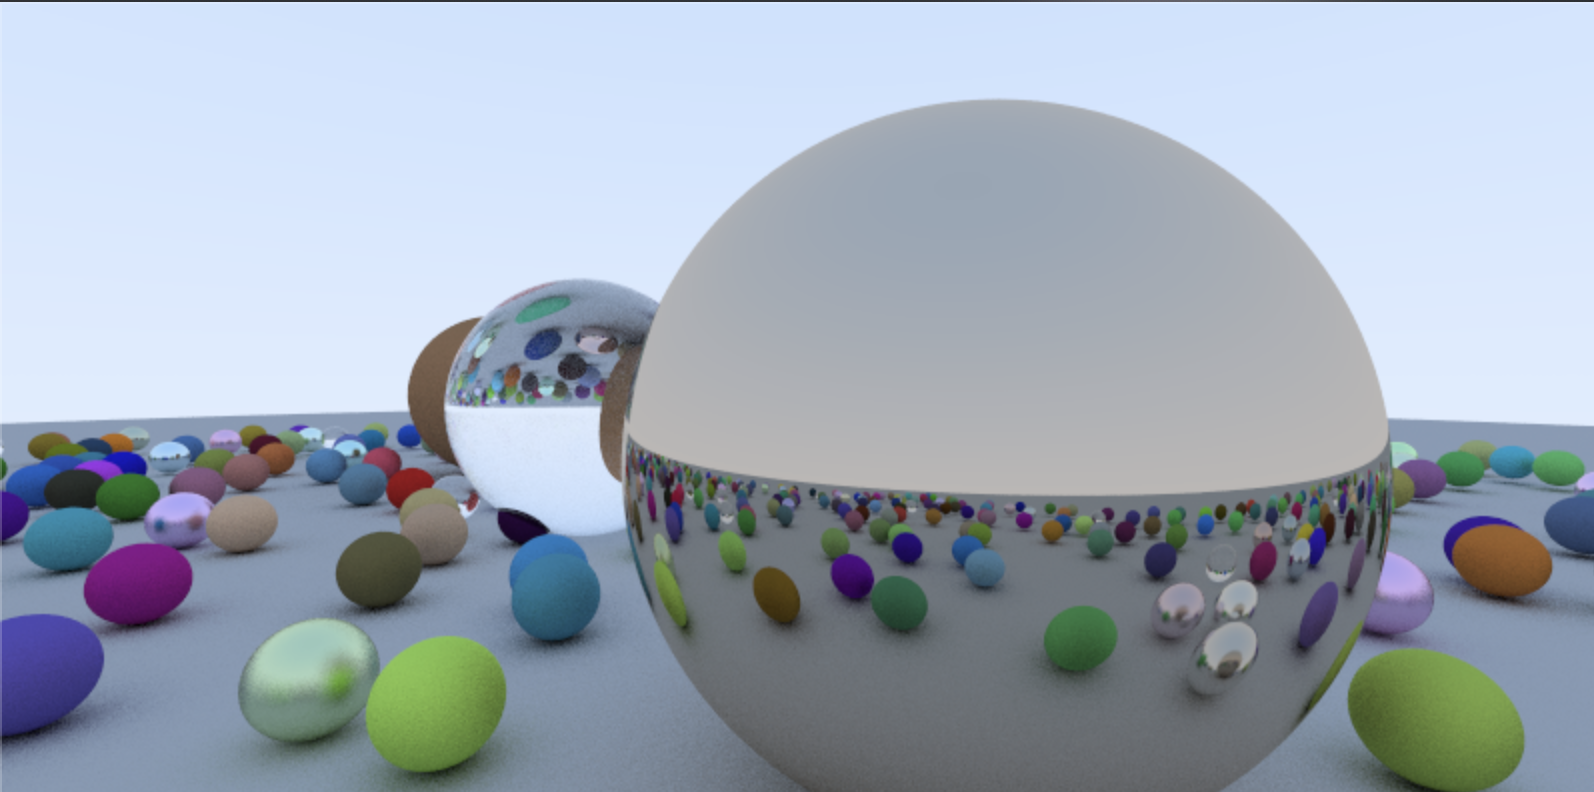
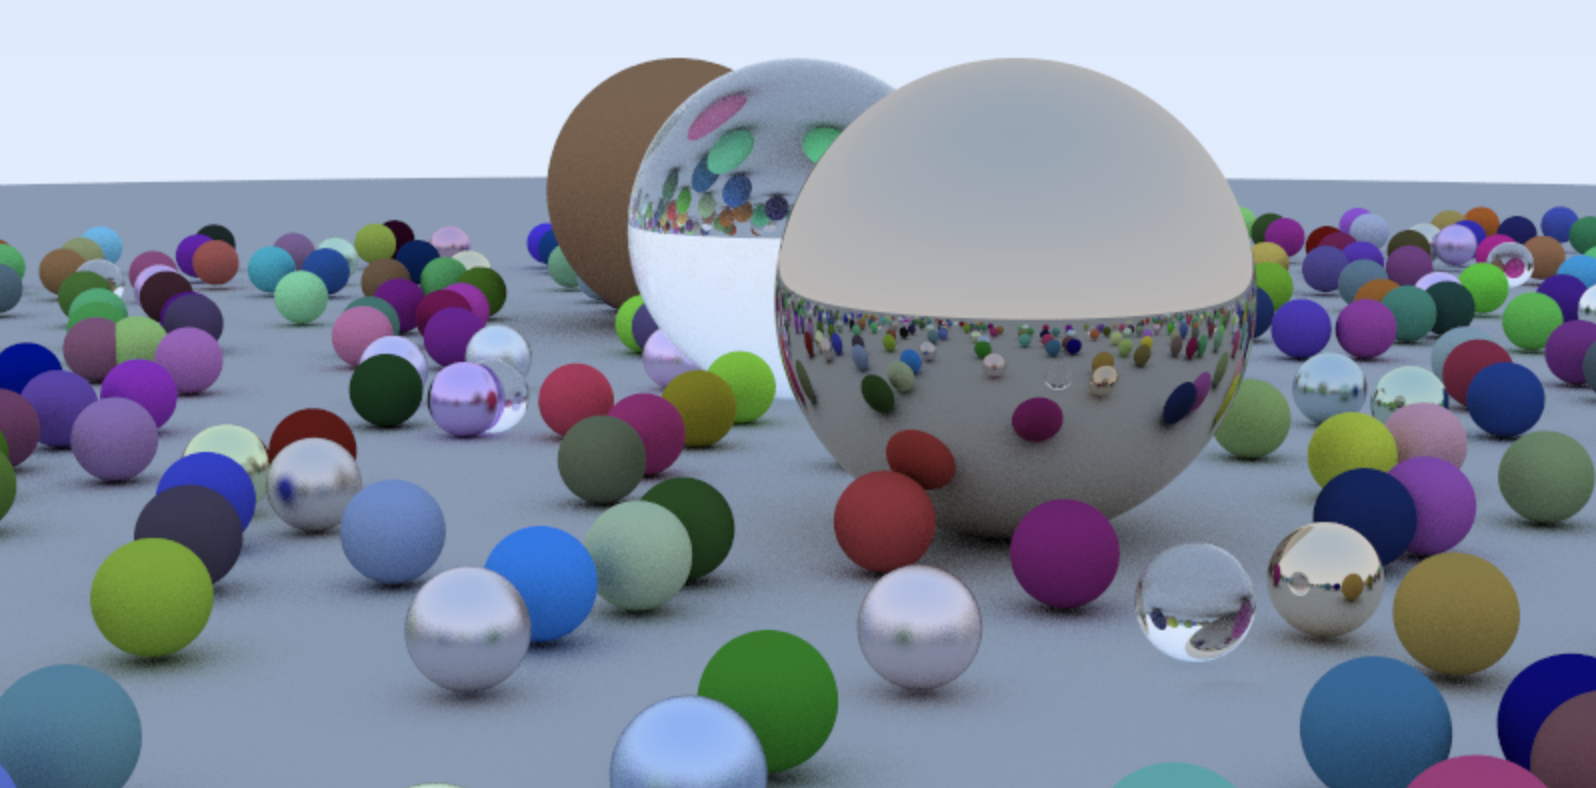
Better config and better image

diff --git a/src/main.rs b/src/main.rs
@@ -142,15 +142,15 @@ fn main() -> std::io::Result<()> {
     content.push_str(format!("P3\n{} {}\n255\n", nx, ny).as_str());
 
 
-    let lookfrom = Vec3::new(5.5, 1.25, 1.55);
-    let lookat = Vec3::new(0.0, 1.0, -2.0);
-    let focus_dist = (lookfrom - lookat).length();
-    let aperture: f32 = 0.001;
+    let lookfrom = Vec3::new(13.0, 2.0, 3.0);
+    let lookat = Vec3::new(0.0, 0.0, 0.0);
+    let focus_dist = 10.0;
+    let aperture: f32 = 0.0;
     let camera = Camera::new(
         lookfrom,
         lookat,
         Vec3::new(0.0, 1.0, 0.0),
-        60.0,
+        20.0,
         nx as f32 / ny as f32,
         aperture,
         focus_dist,
